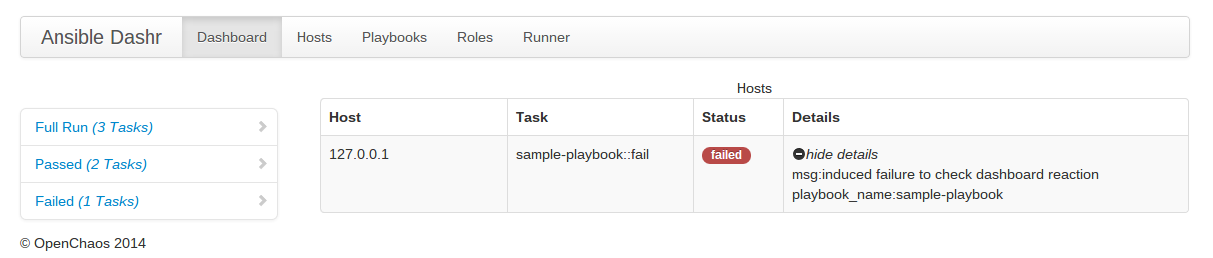
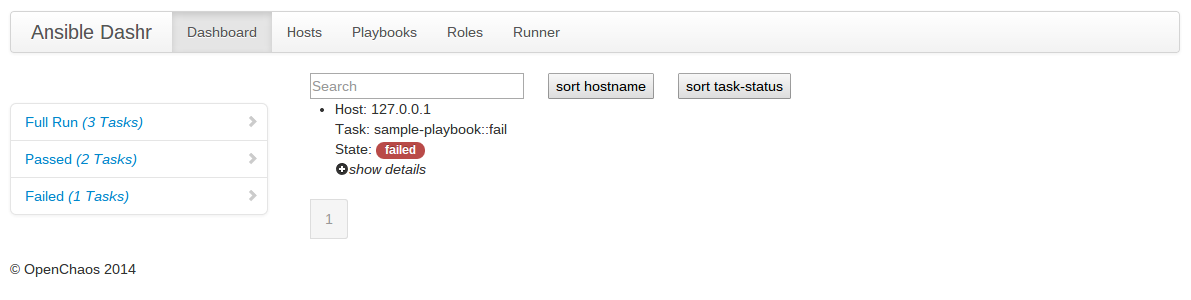
screenshots updated for new style dashboard powered by listjs

diff --git a/SCREENSHOTS.md b/SCREENSHOTS.md
@@ -10,8 +10,9 @@
 * **Dashboard**
 
 ![Ansible-Dashr Dashboard Full View Missing :(](/screenshots/dashboard.png "Screenshot of Dashboard FullRun")
-![Ansible-Dashr Dashboard Full View Missing :(](/screenshots/dashboard.passed.png "Screenshot of Dashboard PassedRun")
-![Ansible-Dashr Dashboard Full View Missing :(](/screenshots/dashboard.failed.png "Screenshot of Dashboard FailedRun")
+![Ansible-Dashr Dashboard Passed-Only View Missing :(](/screenshots/dashboard.passed.png "Screenshot of Dashboard PassedRun")
+![Ansible-Dashr Dashboard Failed-Only View Missing :(](/screenshots/dashboard.failed.png "Screenshot of Dashboard FailedRun")
+![Ansible-Dashr Dashboard Search View Missing :(](/screenshots/dashboard.searched.png "Screenshot of Dashboard Search")
 ---
 
 * **Hosts**
